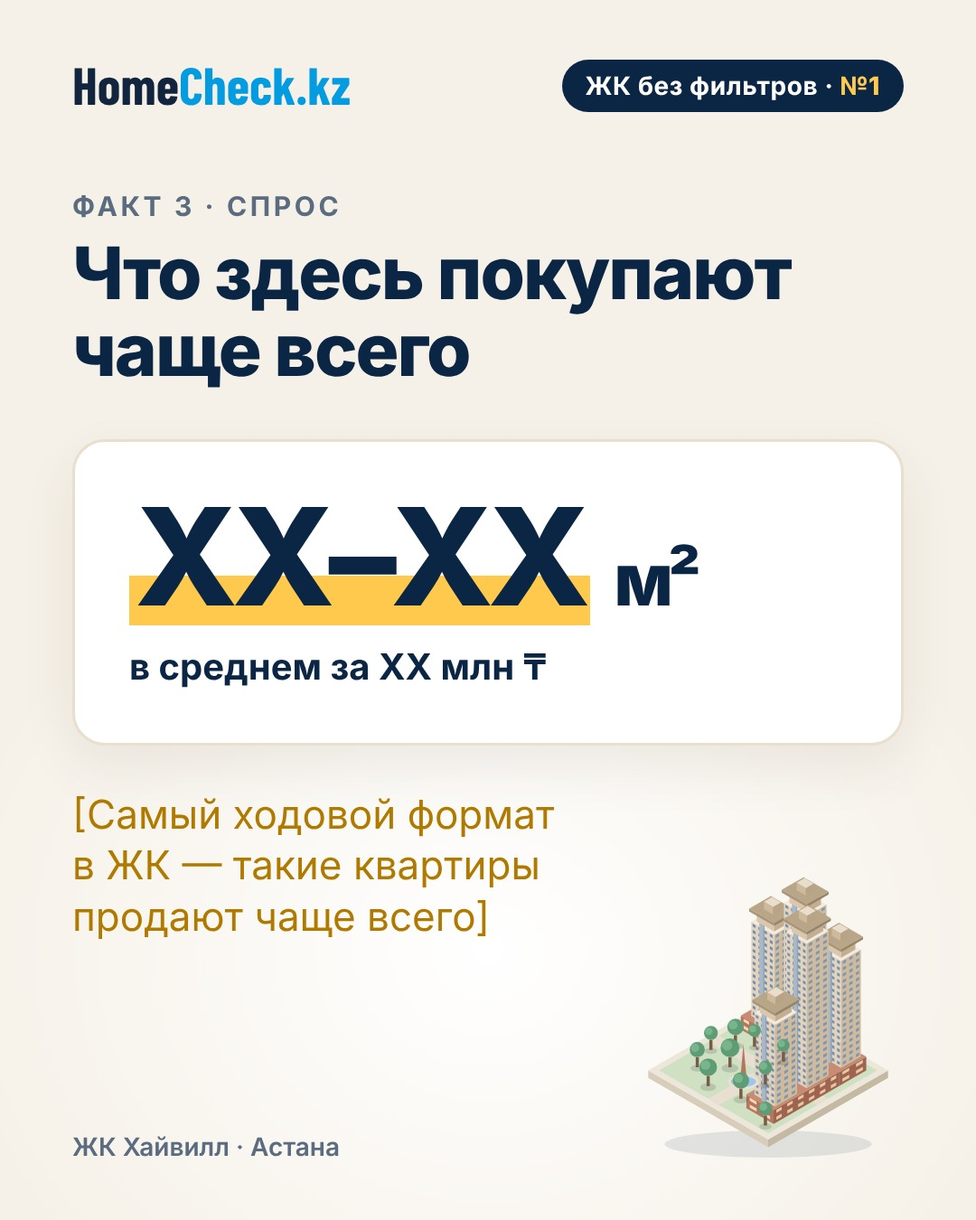
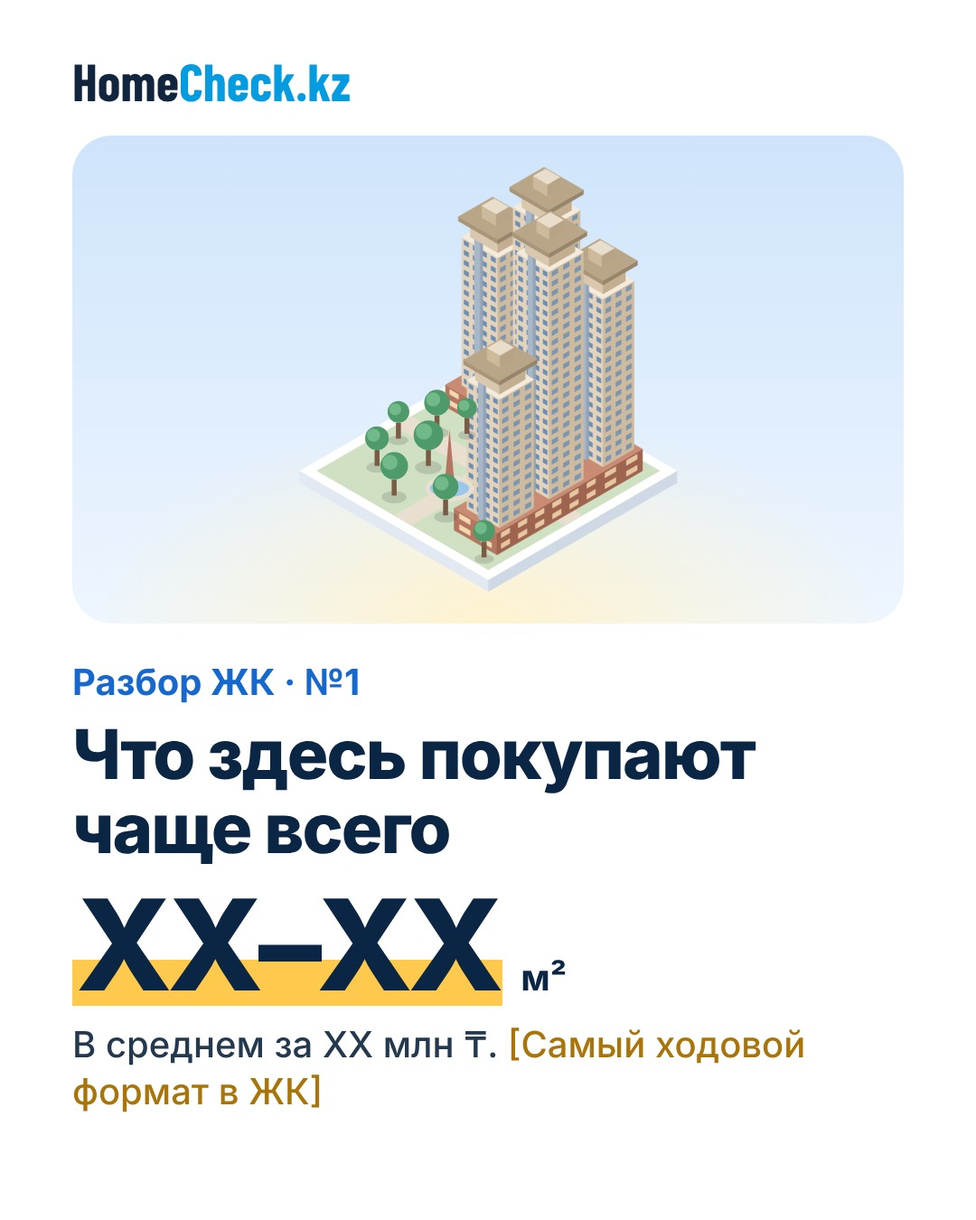
Разбор ЖК №1 Хайвилл: 4 иллюстрации ЖК по фото, строгая типографика, светлый вид
Claude-Session: https://claude.ai/code/session_01YPTRhbcfXRBnSeVtmn8ipe

diff --git a/posts/zhk-bez-filtrov-01-hayvill/iso.py b/posts/zhk-bez-filtrov-01-hayvill/iso.py
@@ -1,85 +1,166 @@
-"""Изометрическая миниатюра ЖК в коде (SVG). Стилизация под Хайвилл: светлые башни с «шапками»,
-красно-коричневый стилобат, деревья. Не фото и не точная копия — узнаваемый образ."""
+"""Изометрические иллюстрации Хайвилла в коде (SVG) по реальным фото: ЖК целиком, башня с аркой-вывеской,
+двор с фонтаном и обелиском, ряд башен. Стилизация, не копия."""
 import math
 C, S = math.cos(math.radians(30)), math.sin(math.radians(30))
+BB = None  # bbox tracker
 
 def P(x, y, z, ox, oy, k):
-    return (ox + (x - y) * C * k, oy + (x + y) * S * k - z * k)
+    p = (ox + (x - y) * C * k, oy + (x + y) * S * k - z * k)
+    if BB is not None:
+        BB[0] = min(BB[0], p[0]); BB[1] = min(BB[1], p[1]); BB[2] = max(BB[2], p[0]); BB[3] = max(BB[3], p[1])
+    return p
 
-def poly(pts, fill, stroke='none', sw=0, op=1):
+def poly(pts, fill, op=1):
     d = ' '.join(f'{a:.1f},{b:.1f}' for a, b in pts)
-    return f'<polygon points="{d}" fill="{fill}" stroke="{stroke}" stroke-width="{sw}" opacity="{op}" stroke-linejoin="round"/>'
+    return f'<polygon points="{d}" fill="{fill}" opacity="{op}" stroke="{fill}" stroke-width=".6" stroke-linejoin="round"/>'
 
-def box(x, y, z, w, d, h, top, left, right, ox, oy, k, win=None):
-    """Box with origin corner (x,y,z). left face = y-facing (x varies), right face = x-facing (y varies)."""
+def box(x, y, z, w, d, h, top, left, right, o, win=None):
+    ox, oy, k = o
     p = lambda a, b, c: P(a, b, c, ox, oy, k)
-    out = []
-    # left face: y = y+d, x from x..x+w
-    out.append(poly([p(x, y + d, z), p(x + w, y + d, z), p(x + w, y + d, z + h), p(x, y + d, z + h)], left))
-    # right face: x = x+w, y from y..y+d
-    out.append(poly([p(x + w, y, z), p(x + w, y + d, z), p(x + w, y + d, z + h), p(x + w, y, z + h)], right))
-    out.append(poly([p(x, y, z + h), p(x + w, y, z + h), p(x + w, y + d, z + h), p(x, y + d, z + h)], top))
+    out = [poly([p(x, y + d, z), p(x + w, y + d, z), p(x + w, y + d, z + h), p(x, y + d, z + h)], left),
+           poly([p(x + w, y, z), p(x + w, y + d, z), p(x + w, y + d, z + h), p(x + w, y, z + h)], right),
+           poly([p(x, y, z + h), p(x + w, y, z + h), p(x + w, y + d, z + h), p(x, y + d, z + h)], top)]
     if win:
-        wc, fl, cols_l, cols_r = win
-        rows = int(h / fl)
-        for r in range(rows):
-            zz = z + r * fl + fl * .35
-            hh = fl * .45
-            for c in range(cols_l):
-                a = x + (c + .25) * w / cols_l; b = a + .5 * w / cols_l
+        wc, fl, cl, cr = win
+        for r in range(int(h / fl)):
+            zz, hh = z + r * fl + fl * .35, fl * .45
+            for c in range(cl):
+                a = x + (c + .25) * w / cl; b = a + .5 * w / cl
                 out.append(poly([p(a, y + d, zz), p(b, y + d, zz), p(b, y + d, zz + hh), p(a, y + d, zz + hh)], wc))
-            for c in range(cols_r):
-                a = y + (c + .25) * d / cols_r; b = a + .5 * d / cols_r
-                out.append(poly([p(x + w, a, zz), p(x + w, b, zz), p(x + w, b, zz + hh), p(x + w, a, zz + hh)], wc, op=.85))
+            for c in range(cr):
+                a = y + (c + .25) * d / cr; b = a + .5 * d / cr
+                out.append(poly([p(x + w, a, zz), p(x + w, b, zz), p(x + w, b, zz + hh), p(x + w, a, zz + hh)], wc, .85))
     return ''.join(out)
 
-def tree(x, y, z, r, ox, oy, k):
-    cx, cy = P(x, y, z, ox, oy, k)
+def tree(x, y, r, o, z=0):
+    ox, oy, k = o
+    cx, cy = P(x, y, z, ox, oy, k); P(x, y, z + 1.6 + 2 * r, ox, oy, k)
     return (f'<ellipse cx="{cx:.1f}" cy="{cy + 2:.1f}" rx="{r * k * .9:.1f}" ry="{r * k * .45:.1f}" fill="#000" opacity=".12"/>'
             f'<rect x="{cx - .25 * k:.1f}" y="{cy - 1.6 * k:.1f}" width="{.5 * k:.1f}" height="{1.6 * k:.1f}" fill="#7A5B45"/>'
-            f'<circle cx="{cx:.1f}" cy="{cy - (1.6 + r) * k:.1f}" r="{r * k:.1f}" fill="#5E9C76"/>'
-            f'<circle cx="{cx - r * k * .3:.1f}" cy="{cy - (1.6 + r * 1.25) * k:.1f}" r="{r * k * .55:.1f}" fill="#78B58D"/>')
+            f'<circle cx="{cx:.1f}" cy="{cy - (1.6 + r) * k:.1f}" r="{r * k:.1f}" fill="#4F9A6B"/>'
+            f'<circle cx="{cx - r * k * .3:.1f}" cy="{cy - (1.6 + r * 1.25) * k:.1f}" r="{r * k * .55:.1f}" fill="#71B988"/>')
 
-def tower(x, y, z, w, d, h, ox, oy, k):
-    cream_t, cream_l, cream_r = '#F4EBDD', '#E3D3BC', '#CDBA9F'
-    out = box(x, y, z, w, d, h, cream_t, cream_l, cream_r, ox, oy, k, win=('#6E8FB5', 1.0, 4, 3))
-    # grey-blue stair stripe on left face
-    out += box(x + w * .42, y + d - .01, z, w * .16, .3, h + 1.2, '#C9D3DE', '#A9B8C9', '#93A4B8', ox, oy, k)
-    # crown: setback block + roof slab
-    out += box(x + .5, y + .5, z + h, w - 1, d - 1, 1.6, '#EFE4D3', '#D9C7AE', '#C3AE91', ox, oy, k)
-    out += box(x - .2, y - .2, z + h + 1.6, w + .4, d + .4, .45, '#B9A688', '#A8957A', '#97856B', ox, oy, k)
-    out += box(x + w * .3, y + d * .3, z + h + 2.05, w * .4, d * .4, 1.2, '#E9DDCB', '#CDB99C', '#B8A386', ox, oy, k)
+def pine(x, y, h, o):
+    ox, oy, k = o
+    cx, cy = P(x, y, 0, ox, oy, k); P(x, y, h, ox, oy, k)
+    w = h * .32 * k
+    return (f'<ellipse cx="{cx:.1f}" cy="{cy + 2:.1f}" rx="{w * .8:.1f}" ry="{w * .4:.1f}" fill="#000" opacity=".12"/>'
+            f'<polygon points="{cx:.1f},{cy - h * k:.1f} {cx - w:.1f},{cy - h * .25 * k:.1f} {cx + w:.1f},{cy - h * .25 * k:.1f}" fill="#3F7F5A"/>'
+            f'<polygon points="{cx:.1f},{cy - h * k:.1f} {cx:.1f},{cy - h * .25 * k:.1f} {cx + w:.1f},{cy - h * .25 * k:.1f}" fill="#356F4E"/>'
+            f'<rect x="{cx - .2 * k:.1f}" y="{cy - h * .25 * k:.1f}" width="{.4 * k:.1f}" height="{h * .25 * k:.1f}" fill="#7A5B45"/>')
+
+def person(x, y, o, c='#1768CE'):
+    ox, oy, k = o
+    cx, cy = P(x, y, 0, ox, oy, k); P(x, y, 2.2, ox, oy, k)
+    return (f'<ellipse cx="{cx:.1f}" cy="{cy + 1:.1f}" rx="{.6 * k:.1f}" ry="{.3 * k:.1f}" fill="#000" opacity=".15"/>'
+            f'<rect x="{cx - .35 * k:.1f}" y="{cy - 1.7 * k:.1f}" width="{.7 * k:.1f}" height="{1.7 * k:.1f}" rx="{.35 * k:.1f}" fill="{c}"/>'
+            f'<circle cx="{cx:.1f}" cy="{cy - 2.05 * k:.1f}" r="{.38 * k:.1f}" fill="#E8B89A"/>')
+
+CREAM = ('#F4EBDD', '#E3D3BC', '#CDBA9F')
+BRICK = ('#C98B73', '#B47660', '#9E6450')
+WIN = '#6E8FB5'
+
+def tower(x, y, z, w, d, h, o):
+    out = box(x, y, z, w, d, h, *CREAM, o, win=(WIN, 1.0, 4, 3))
+    out += box(x + w * .42, y + d - .01, z, w * .16, .3, h + 1.2, '#C9D3DE', '#A9B8C9', '#93A4B8', o)
+    out += box(x + .5, y + .5, z + h, w - 1, d - 1, 1.6, '#EFE4D3', '#D9C7AE', '#C3AE91', o)
+    out += box(x - .2, y - .2, z + h + 1.6, w + .4, d + .4, .45, '#B9A688', '#A8957A', '#97856B', o)
+    out += box(x + w * .3, y + d * .3, z + h + 2.05, w * .4, d * .4, 1.2, '#E9DDCB', '#CDB99C', '#B8A386', o)
     return out
 
-def miniature(W=900, H=760, k=13.0, ox=None, oy=None):
-    ox = W / 2 if ox is None else ox
-    oy = H * .40 if oy is None else oy
-    s = [f'<svg viewBox="170 15 560 600" width="560" height="600" xmlns="http://www.w3.org/2000/svg">']
-    # board shadow + board
-    bx = lambda a, b, c: P(a, b, c, ox, oy, k)
-    s.append(f'<ellipse cx="{ox:.0f}" cy="{oy + 20 * k * S * 2 + 1.2 * k + 6:.0f}" rx="{19 * k * C:.0f}" ry="{28}" fill="#0B2545" opacity=".10"/>')
-    s.append(box(-1, -1, -1.2, 22, 22, 1.2, '#EDE6DA', '#D8CDBB', '#C6B9A4', ox, oy, k))
-    # lawn + paths
-    s.append(poly([bx(0, 0, 0), bx(20, 0, 0), bx(20, 20, 0), bx(0, 20, 0)], '#CFE0C3'))
-    s.append(poly([bx(9, 0, .01), bx(11, 0, .01), bx(11, 20, .01), bx(9, 20, .01)], '#E8DFD0'))
-    s.append(poly([bx(0, 9, .01), bx(20, 9, .01), bx(20, 11, .01), bx(0, 11, .01)], '#E8DFD0'))
-    # podium (red-brown stylobate) along back and right
-    s.append(box(1, 1, 0, 18, 5, 2.2, '#C98B73', '#B47660', '#9E6450', ox, oy, k, win=('#F3D9B0', 1.1, 9, 2)))
-    s.append(box(14, 6, 0, 5, 12, 2.2, '#C98B73', '#B47660', '#9E6450', ox, oy, k, win=('#F3D9B0', 1.1, 2, 6)))
-    # towers (draw back to front: sort by x+y)
+def board(w, d, o, lawn='#CFE0C3'):
+    ox, oy, k = o
+    s = box(-1, -1, -1.2, w + 2, d + 2, 1.2, '#FFFFFF', '#E3E9F2', '#CFD8E5', o)
+    s += poly([P(0, 0, 0, ox, oy, k), P(w, 0, 0, ox, oy, k), P(w, d, 0, ox, oy, k), P(0, d, 0, ox, oy, k)], lawn)
+    return s
+
+def svg(parts, pad=18):
+    x0, y0, x1, y1 = BB
+    return (f'<svg viewBox="{x0 - pad:.0f} {y0 - pad:.0f} {x1 - x0 + 2 * pad:.0f} {y1 - y0 + 2 * pad:.0f}" '
+            f'width="{x1 - x0 + 2 * pad:.0f}" height="{y1 - y0 + 2 * pad:.0f}" xmlns="http://www.w3.org/2000/svg">{"".join(parts)}</svg>')
+
+def _start():
+    global BB
+    BB = [1e9, 1e9, -1e9, -1e9]
+
+def complex_():
+    """Весь ЖК: стилобат, пять башен, двор с фонтаном."""
+    _start(); o = (450, 300, 13.0); ox, oy, k = o
+    s = [board(20, 20, o)]
+    s.append(poly([P(9, 0, .01, *o), P(11, 0, .01, *o), P(11, 20, .01, *o), P(9, 20, .01, *o)], '#E8DFD0'))
+    s.append(poly([P(0, 9, .01, *o), P(20, 9, .01, *o), P(20, 11, .01, *o), P(0, 11, .01, *o)], '#E8DFD0'))
+    s.append(box(1, 1, 0, 18, 5, 2.2, *BRICK, o, win=('#F3D9B0', 1.1, 9, 2)))
+    s.append(box(14, 6, 0, 5, 12, 2.2, *BRICK, o, win=('#F3D9B0', 1.1, 2, 6)))
     T = [(2, 1.5, 2.2, 4.2, 3.6, 15), (8, 1.5, 2.2, 4.2, 3.6, 21), (14.5, 1.5, 2.2, 4, 3.6, 17), (14.8, 7.5, 2.2, 3.8, 4, 23), (14.8, 13.3, 2.2, 3.8, 4, 13)]
     for t in sorted(T, key=lambda t: t[0] + t[1]):
-        s.append(tower(*t, ox, oy, k))
-    # fountain + trees front
-    cx, cy = P(9.5, 14, 0, ox, oy, k)
+        s.append(tower(*t, o))
+    cx, cy = P(9.5, 14, 0, *o)
     s.append(f'<ellipse cx="{cx:.0f}" cy="{cy:.0f}" rx="{2.2 * k:.0f}" ry="{1.1 * k:.0f}" fill="#9CC7EC" stroke="#E8DFD0" stroke-width="6"/>')
-    obel = [P(9.5, 14, 0, ox, oy, k), P(9.5, 14, 6, ox, oy, k)]
-    s.append(f'<polygon points="{obel[0][0] - 7:.0f},{obel[0][1]:.0f} {obel[0][0] + 7:.0f},{obel[0][1]:.0f} {obel[1][0]:.0f},{obel[1][1]:.0f}" fill="#B47660"/>')
-    trees = [(3, 9, 1.3), (6, 13, 1.5), (3, 16, 1.2), (7, 18, 1.4), (12, 17, 1.3), (12, 12.5, 1.1), (5, 7.5, 1.0), (18.5, 19, 1.1), (1.5, 12, 1.1), (10, 7.2, 1.0)]
-    for tx, ty, r in sorted(trees, key=lambda t: t[0] + t[1]):
-        s.append(tree(tx, ty, 0, r, ox, oy, k))
-    s.append('</svg>')
-    return ''.join(s)
+    tp = P(9.5, 14, 6, *o)
+    s.append(f'<polygon points="{cx - 7:.0f},{cy:.0f} {cx + 7:.0f},{cy:.0f} {tp[0]:.0f},{tp[1]:.0f}" fill="#B47660"/>')
+    for tx, ty, r in sorted([(3, 9, 1.3), (6, 13, 1.5), (3, 16, 1.2), (7, 18, 1.4), (12, 17, 1.3), (5, 7.5, 1.0), (18.5, 19, 1.1), (1.5, 12, 1.1)], key=lambda t: t[0] + t[1]):
+        s.append(tree(tx, ty, r, o))
+    return svg(s)
+
+def gate():
+    """Башня и тёмная арка-мост с вывеской HIGHVILL ASTANA (фото 1)."""
+    _start(); o = (450, 300, 14.0); ox, oy, k = o
+    s = [board(16, 12, o, lawn='#E8DFD0')]
+    s.append(box(3, 0.5, 0, 9, 7, 3, *BRICK, o, win=('#F3D9B0', 1.2, 6, 4)))
+    s.append(tower(4.5, 1, 3, 6, 5, 22, o))
+    # bridge: two legs + span in front (y ~ 9..11)
+    for tx, ty, r in [(1, 3, 1.2), (14.5, 2, 1.3), (15, 6, 1.0)]:
+        s.append(tree(tx, ty, r, o))
+    dark = ('#4A5566', '#2E3846', '#3B4656')
+    s.append(box(1, 9, 0, 1.6, 2, 6, *dark, o))
+    s.append(box(13, 9, 0, 1.6, 2, 6, *dark, o))
+    s.append(box(0.5, 9, 6, 14.6, 2, 2.6, *dark, o))
+    # sign text on the left face (y = 11), along x
+    a = P(2.2, 11, 6.9, *o)
+    s.append(f'<text transform="matrix({C:.3f},{S:.3f},0,1,{a[0]:.1f},{a[1]:.1f})" font-family="Inter" font-weight="800" '
+             f'font-size="{1.25 * k:.1f}" letter-spacing="2" fill="#F2F2F2">HIGHVILL ASTANA</text>')
+    s.append(person(7, 12.5, o, '#FFC94D')); s.append(person(8.3, 12.2, o))
+    return svg(s)
+
+def courtyard():
+    """Двор: фонтан с обелиском, аркады, деревья, люди (фото 2 и фонтан)."""
+    _start(); o = (450, 300, 13.0); ox, oy, k = o
+    s = [board(18, 18, o, lawn='#D6E6CC')]
+    s.append(poly([P(4, 8.5, .01, *o), P(14, 8.5, .01, *o), P(14, 16, .01, *o), P(4, 16, .01, *o)], '#EDE4D4'))
+    s.append(tower(1, 0.5, 0, 5.5, 4.5, 17, o))
+    s.append(tower(10.5, 0.5, 0, 6, 4.5, 21, o))
+    s.append(box(0, 5.2, 0, 18, 2.2, 4, *BRICK, o))
+    for i in range(6):
+        ax = 1 + i * 2.8
+        pts = [P(ax, 7.4, 0, *o), P(ax + 1.6, 7.4, 0, *o), P(ax + 1.6, 7.4, 2.2, *o), P(ax + .8, 7.4, 3, *o), P(ax, 7.4, 2.2, *o)]
+        s.append(poly(pts, '#7E4A3A'))
+    cx, cy = P(9, 12.2, 0, *o)
+    s.append(f'<ellipse cx="{cx:.0f}" cy="{cy:.0f}" rx="{3.2 * k:.0f}" ry="{1.6 * k:.0f}" fill="#9CC7EC" stroke="#E1D6C3" stroke-width="8"/>')
+    for dx in (-2.4, -1.4, 1.4, 2.4):
+        s.append(f'<path d="M{cx + dx * k:.0f} {cy - 2:.0f} Q{cx + dx * k * .5:.0f} {cy - 4.5 * k:.0f} {cx + dx * k * .15:.0f} {cy - .6 * k:.0f}" fill="none" stroke="#FFFFFF" stroke-width="4" stroke-linecap="round" opacity=".95"/>')
+    tp = P(9, 12.2, 8, *o)
+    s.append(f'<polygon points="{cx - 10:.0f},{cy:.0f} {cx + 10:.0f},{cy:.0f} {tp[0]:.0f},{tp[1]:.0f}" fill="#B47660"/>')
+    s.append(f'<polygon points="{cx:.0f},{cy:.0f} {cx + 10:.0f},{cy:.0f} {tp[0]:.0f},{tp[1]:.0f}" fill="#9E6450"/>')
+    items = [(2, 10, 'p'), (2, 15, 'p'), (16, 10, 'p'), (16.2, 15.5, 'p'), (5.5, 17.2, 't'), (13, 17.2, 't')]
+    for x, y, t in sorted(items, key=lambda a: a[0] + a[1]):
+        s.append(pine(x, y, 6, o) if t == 'p' else tree(x, y, 1.1, o))
+    s.append(person(6.2, 13.8, o, '#FFC94D')); s.append(person(6.9, 14.4, o)); s.append(person(12.2, 10.6, o, '#0B2545'))
+    return svg(s)
+
+def skyline():
+    """Ряд башен вдоль улицы (фото 3): разные высоты и короны."""
+    _start(); o = (450, 300, 12.0); ox, oy, k = o
+    s = [board(26, 8, o, lawn='#D6E6CC')]
+    s.append(poly([P(0, 6, .01, *o), P(26, 6, .01, *o), P(26, 8, .01, *o), P(0, 8, .01, *o)], '#C9CED6'))
+    s.append(box(0.5, 0.5, 0, 25, 4.5, 2, *BRICK, o, win=('#F3D9B0', 1.0, 12, 2)))
+    for x, h in [(1, 14), (6.2, 22), (11.4, 17), (16.6, 25), (21.6, 12)]:
+        s.append(tower(x, 1, 2, 4, 3.6, h, o))
+    for i in range(7):
+        s.append(tree(1.5 + i * 3.8, 5.5, 1.0, o))
+    return svg(s)
 
 if __name__ == '__main__':
-    open('/tmp/claude-0/-home-claude/316e28d6-cc64-504b-83e1-3a131c4a553a/scratchpad/mini.svg', 'w').write(miniature())
+    import sys
+    out = sys.argv[1]
+    for n, f in [('complex', complex_), ('gate', gate), ('courtyard', courtyard), ('skyline', skyline)]:
+        open(f'{out}/{n}.svg', 'w').write(f())

diff --git a/posts/zhk-bez-filtrov-01-hayvill/build.py b/posts/zhk-bez-filtrov-01-hayvill/build.py
@@ -1,98 +1,74 @@
-"""Рубрика «ЖК без фильтров», №1 — Хайвилл. Свой вид рубрики: тёплый светлый фон, миниатюра ЖК (iso.py),
-карточки-«досье». Цифры — XX (ждём данные команды), выводы в [скобках] — черновик под цифры."""
+"""Рубрика «Разбор ЖК», №1 — Хайвилл. Иллюстрации ЖК в коде (iso.py) по реальным фото команды.
+Строгая типографика: заголовок 76, цифра 140, текст 40. Цифры — XX, выводы в [скобках] — черновик под данные."""
 import sys, pathlib
 sys.path.insert(0, str(pathlib.Path(__file__).resolve().parents[2] / 'templates'))
 from playwright.sync_api import sync_playwright
 from render import FONT_LOGO_URI, render
-from iso import miniature
+import iso
 
 HERE = pathlib.Path(__file__).resolve().parent
-NAVY, BLUE, YEL, LAB, BG = '#0B2545', '#1768CE', '#FFC94D', '#5B6B80', '#F6F1E8'
+NAVY, BLUE, YEL = '#0B2545', '#1768CE', '#FFC94D'
 NAME, NUM = 'Хайвилл', 1
-N = 7
+ILL = {n: f() for n, f in [('complex', iso.complex_), ('gate', iso.gate), ('courtyard', iso.courtyard), ('skyline', iso.skyline)]}
 
 CSS = f"""
 @font-face{{font-family:'Barlow Condensed';font-weight:700;src:url('{FONT_LOGO_URI}')}}
 *{{box-sizing:border-box}} body{{margin:0}}
-.s{{position:relative;width:1080px;height:1350px;overflow:hidden;font-family:Inter,sans-serif;color:{NAVY};
-   background:radial-gradient(80% 55% at 50% 78%,#FFFFFF 0%,rgba(255,255,255,0) 70%),{BG}}}
-.logo{{position:absolute;left:80px;top:64px;font-family:'Barlow Condensed';font-size:58px;font-weight:700;line-height:1}}
+.s{{position:relative;width:1080px;height:1350px;overflow:hidden;font-family:Inter,sans-serif;color:{NAVY};background:#FFFFFF}}
+.logo{{position:absolute;left:80px;top:60px;font-family:'Barlow Condensed';font-size:58px;font-weight:700;line-height:1}}
 .logo .h{{color:#12253E}} .logo .c{{color:#049BE1}}
-.badge{{position:absolute;right:80px;top:66px;background:{NAVY};color:#fff;border-radius:999px;padding:12px 26px;font-size:28px;font-weight:700;letter-spacing:.02em}}
-.badge b{{color:{YEL};font-weight:800}}
-.lab{{font-size:30px;font-weight:700;letter-spacing:.12em;text-transform:uppercase;color:{LAB}}}
-.t{{margin:14px 0 0;font-size:80px;line-height:1.06;font-weight:800;letter-spacing:-.025em}}
-.card{{background:#fff;border:3px solid #E9DFCF;border-radius:36px;box-shadow:0 24px 60px rgba(70,50,20,.08)}}
-.big{{font-size:150px;line-height:.95;font-weight:800;letter-spacing:-.045em}}
-.mark{{background:linear-gradient(transparent 62%,{YEL} 62%,{YEL} 92%,transparent 92%);padding:0 6px}}
-.p{{font-size:44px;line-height:1.28;color:#24384F;margin:0}}
-.foot{{position:absolute;left:80px;right:80px;bottom:64px;display:flex;justify-content:space-between;font-size:28px;font-weight:600;color:{LAB}}}
-.ph{{color:#B07A00}}
+.stage{{position:absolute;left:80px;width:920px;border-radius:44px;overflow:hidden;
+        background:radial-gradient(70% 60% at 50% 100%,#FFF3CF 0%,rgba(255,243,207,0) 70%),linear-gradient(180deg,#CFE4FB 0%,#EEF6FF 100%);
+        display:flex;align-items:center;justify-content:center}}
+.stage svg{{width:auto;height:auto}}
+.col{{position:absolute;left:80px;width:920px}}
+.t{{margin:0;font-size:76px;line-height:1.08;font-weight:800;letter-spacing:-.025em}}
+.n{{font-size:140px;line-height:.95;font-weight:800;letter-spacing:-.04em}}
+.n i{{font-style:normal;background:linear-gradient(transparent 60%,{YEL} 60%,{YEL} 90%,transparent 90%);padding:0 4px}}
+.p,.u{{font-size:40px;line-height:1.3;font-weight:500;color:#24384F;margin:0}}
+.u{{font-weight:700;color:{NAVY};letter-spacing:0}}
+.r{{font-size:40px;font-weight:700;color:{BLUE};margin:0 0 14px}}
+.ph{{color:#A9740A}}
 """
 
-def page(inner, k, foot=True, count=True):
-    f = (f'<div class="foot"><span>ЖК {NAME} · Астана</span><span>{k}/{N if count else ""}</span></div>'.replace(f'{k}/</span>', '</span>') if foot else '')
+def page(inner):
     return (f'<!doctype html><html lang="ru"><head><meta charset="utf-8"><style>{CSS}</style></head><body><div class="s">'
-            f'<span class="logo"><span class="h">Home</span><span class="c">Check.kz</span></span>'
-            f'<span class="badge">ЖК без фильтров · <b>№{NUM}</b></span>{inner}{f}</div></body></html>')
+            f'<span class="logo"><span class="h">Home</span><span class="c">Check.kz</span></span>{inner}</div></body></html>')
 
-def mini(x, y, w):
-    svg = miniature()
-    return f'<div style="position:absolute;left:{x}px;top:{y}px;width:{w}px">{svg.replace("<svg ", f"<svg style=width:{w}px;height:auto ", 1)}</div>'
+def stage(name, top, h, maxh):
+    return f'<div class="stage" style="top:{top}px;height:{h}px">{ILL[name].replace("<svg ", f"<svg preserveAspectRatio='xMidYMid meet' style='height:{maxh}px;width:860px' ", 1)}</div>'
 
-def head(label, title, top=210):
-    return f'<div style="position:absolute;left:80px;top:{top}px;width:920px"><div class="lab">{label}</div><h2 class="t">{title}</h2></div>'
+def fact(ill, title, num, unit, line):
+    return page(stage(ill, 150, 540, 500)
+                + f'<div class="col" style="top:730px"><p class="r">Разбор ЖК · №{NUM}</p><h2 class="t">{title}</h2>'
+                f'<div style="display:flex;align-items:baseline;gap:20px;margin-top:22px"><span class="n"><i>{num}</i></span><span class="u">{unit}</span></div>'
+                f'<p class="p" style="margin-top:18px">{line}</p></div>')
 
-def fact(k, label, title, body, line):
-    return page(f'<div style="position:absolute;left:80px;top:210px;width:920px;display:flex;flex-direction:column">'
-                f'<div class="lab">{label}</div><h2 class="t">{title}</h2>'
-                f'<div class="card" style="margin-top:56px;padding:56px 60px 60px">{body}</div>'
-                f'<p class="p" style="margin-top:48px;width:600px">{line}</p></div>' + mini(700, 960, 300), k, count=False)
+S1 = page(stage('complex', 150, 720, 680)
+          + f'<div class="col" style="top:910px"><p class="r">Разбор ЖК · №{NUM}</p>'
+            f'<h1 class="n" style="margin:0">{NAME}</h1><p class="p" style="margin-top:22px">Что о нём говорят реальные сделки →</p></div>')
 
-def bars(a, b):
-    def col(name, v, h, c):
-        return (f'<div style="width:330px;display:flex;flex-direction:column;align-items:center">'
-                f'<div style="font-size:64px;font-weight:800;margin-bottom:14px">{v}</div>'
-                f'<div style="width:100%;height:{h}px;border-radius:24px 24px 8px 8px;background:{c}"></div>'
-                f'<div style="margin-top:20px;font-size:34px;font-weight:700">{name}</div></div>')
-    return (f'<div style="display:flex;justify-content:space-around;align-items:flex-end;height:330px">'
-            f'{col(NAME, a, 210, BLUE)}{col("Астана", b, 140, "#D9CDB8")}</div>')
+S2 = fact('gate', 'Сколько стоит метр на&nbsp;самом деле', 'XX', 'тыс. ₸ за м²',
+          'Средняя цена по&nbsp;зарегистрированным сделкам в&nbsp;ЖК')
+S3 = fact('skyline', 'Как держит цену', '+XX%', 'за год',
+          f'В среднем по Астане — +XX%. <span class="ph">[Дорожает быстрее города]</span>')
+S4 = fact('complex', 'Что здесь покупают чаще всего', 'XX–XX', 'м²',
+          f'В среднем за XX млн ₸. <span class="ph">[Самый ходовой формат в&nbsp;ЖК]</span>')
+S5 = fact('courtyard', 'Как долго здесь живут', 'X', 'лет',
+          f'Столько в среднем владеют квартирой до&nbsp;продажи. <span class="ph">[Здесь живут подолгу]</span>')
 
-S1 = page(
-    f'<div style="position:absolute;left:80px;top:190px;width:920px"><div class="lab">Что о нём говорят реальные сделки</div>'
-    f'<h1 style="margin:8px 0 0;font-size:150px;line-height:1;font-weight:800;letter-spacing:-.045em">{NAME}</h1></div>'
-    + mini(130, 400, 820)
-    + f'<div style="position:absolute;left:80px;bottom:130px;font-size:40px;font-weight:700">Листайте →</div>', 1)
+rows = ''.join(
+    f'<div style="display:flex;align-items:center;gap:28px;padding:34px 0;border-top:3px solid #E6EEF8">'
+    f'<span style="flex:none;width:72px;height:72px;border-radius:50%;background:{YEL};display:flex;align-items:center;justify-content:center;font-size:40px;font-weight:700">{i}</span>'
+    f'<span class="ph" style="font-size:40px;font-weight:700">{t}</span></div>'
+    for i, t in enumerate(['[Дорожает быстрее города]', '[Живут подолгу]', '[Чаще всего берут 60–80 м²]'], 1))
+S6 = page(stage('skyline', 150, 420, 380)
+          + f'<div class="col" style="top:610px"><p class="r">Разбор ЖК · №{NUM}</p><h2 class="t">Коротко о&nbsp;Хайвилле</h2>'
+            f'<div style="margin-top:30px">{rows}</div></div>')
 
-S2 = fact(2, 'Факт 1 · цена', 'Сколько стоит метр на&nbsp;самом деле',
-          f'<div class="big"><span class="mark">XX</span> <span style="font-size:80px">тыс. ₸</span></div>'
-          f'<div style="font-size:40px;font-weight:700;margin-top:26px">средняя цена м² по&nbsp;сделкам</div>',
-          'Это то, сколько платят за метр в&nbsp;этом ЖК по&nbsp;зарегистрированным сделкам.')
-
-S3 = fact(3, 'Факт 2 · динамика', 'Как держит цену',
-          bars('+XX%', '+XX%') + f'<div style="font-size:30px;color:{LAB};margin-top:26px;text-align:center">изменение цены м² за год</div>',
-          f'<span class="ph">[Дорожает быстрее, чем в среднем по&nbsp;Астане]</span>')
-
-S4 = fact(4, 'Факт 3 · спрос', 'Что здесь покупают чаще всего',
-          f'<div class="big"><span class="mark">XX–XX</span> <span style="font-size:80px">м²</span></div>'
-          f'<div style="font-size:40px;font-weight:700;margin-top:26px">в среднем за&nbsp;XX млн ₸</div>',
-          f'<span class="ph">[Самый ходовой формат в&nbsp;ЖК — такие квартиры продают чаще всего]</span>')
-
-S5 = fact(5, 'Факт 4 · жильцы', 'Как долго здесь живут',
-          f'<div class="big"><span class="mark">X</span> <span style="font-size:80px">лет</span></div>'
-          f'<div style="font-size:40px;font-weight:700;margin-top:26px">в среднем владеют квартирой до&nbsp;продажи</div>',
-          f'<span class="ph">[Здесь живут подолгу — квартиры редко меняют хозяев]</span>')
-
-chips = ''.join(
-    f'<div class="card" style="display:flex;align-items:center;gap:30px;padding:36px 44px;margin-top:28px">'
-    f'<span style="flex:none;width:76px;height:76px;border-radius:50%;background:{YEL};display:flex;align-items:center;justify-content:center;font-size:40px;font-weight:800">{i}</span>'
-    f'<span class="ph" style="font-size:48px;font-weight:800">{t}</span></div>'
-    for i, t in enumerate(['[Дорожает быстрее города]', '[Живут подолгу]', '[Чаще берут 60–80 м²]'], 1))
-S6 = page(head('Итог', f'{NAME} в&nbsp;трёх словах') + f'<div style="position:absolute;left:80px;top:470px;width:920px">{chips}</div>', 6)
-
-S7 = page(head('Ваш ЖК', 'Узнайте характер своего ЖК')
-          + '<p class="p" style="position:absolute;left:80px;top:450px;width:920px"><b>Введите название или адрес на&nbsp;<span style="color:#1768CE">homecheck.kz</span></b></p>'
-          + mini(250, 560, 580), 7)
+S7 = page(stage('complex', 150, 720, 680)
+          + f'<div class="col" style="top:910px"><h2 class="t">А что сделки говорят о&nbsp;вашем ЖК?</h2>'
+            f'<p class="p" style="margin-top:22px">Введите название или адрес на&nbsp;<b style="color:{BLUE}">homecheck.kz</b></p></div>')
 
 SLIDES = [S1, S2, S3, S4, S5, S6, S7]
 
